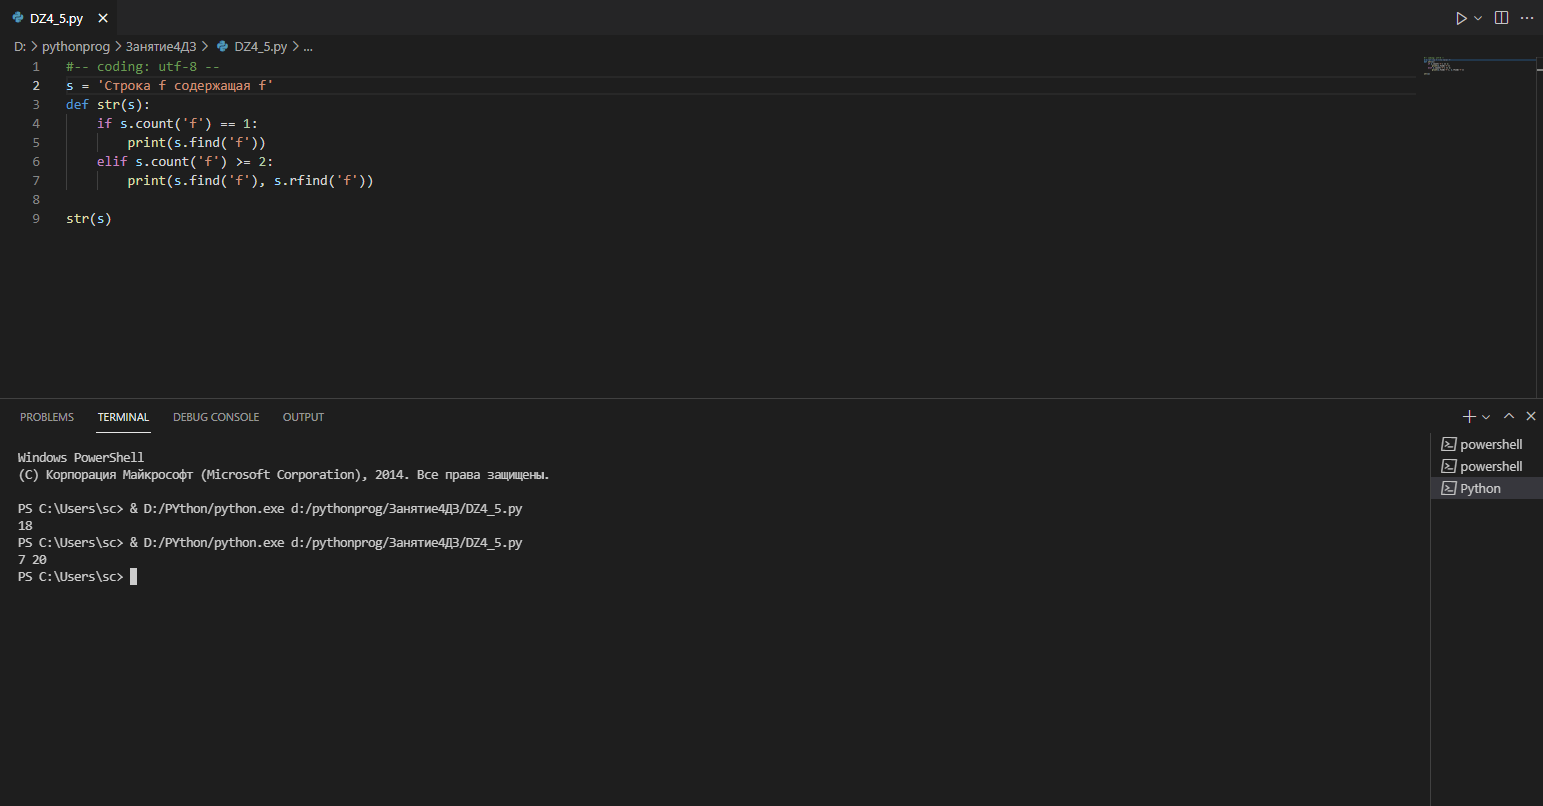
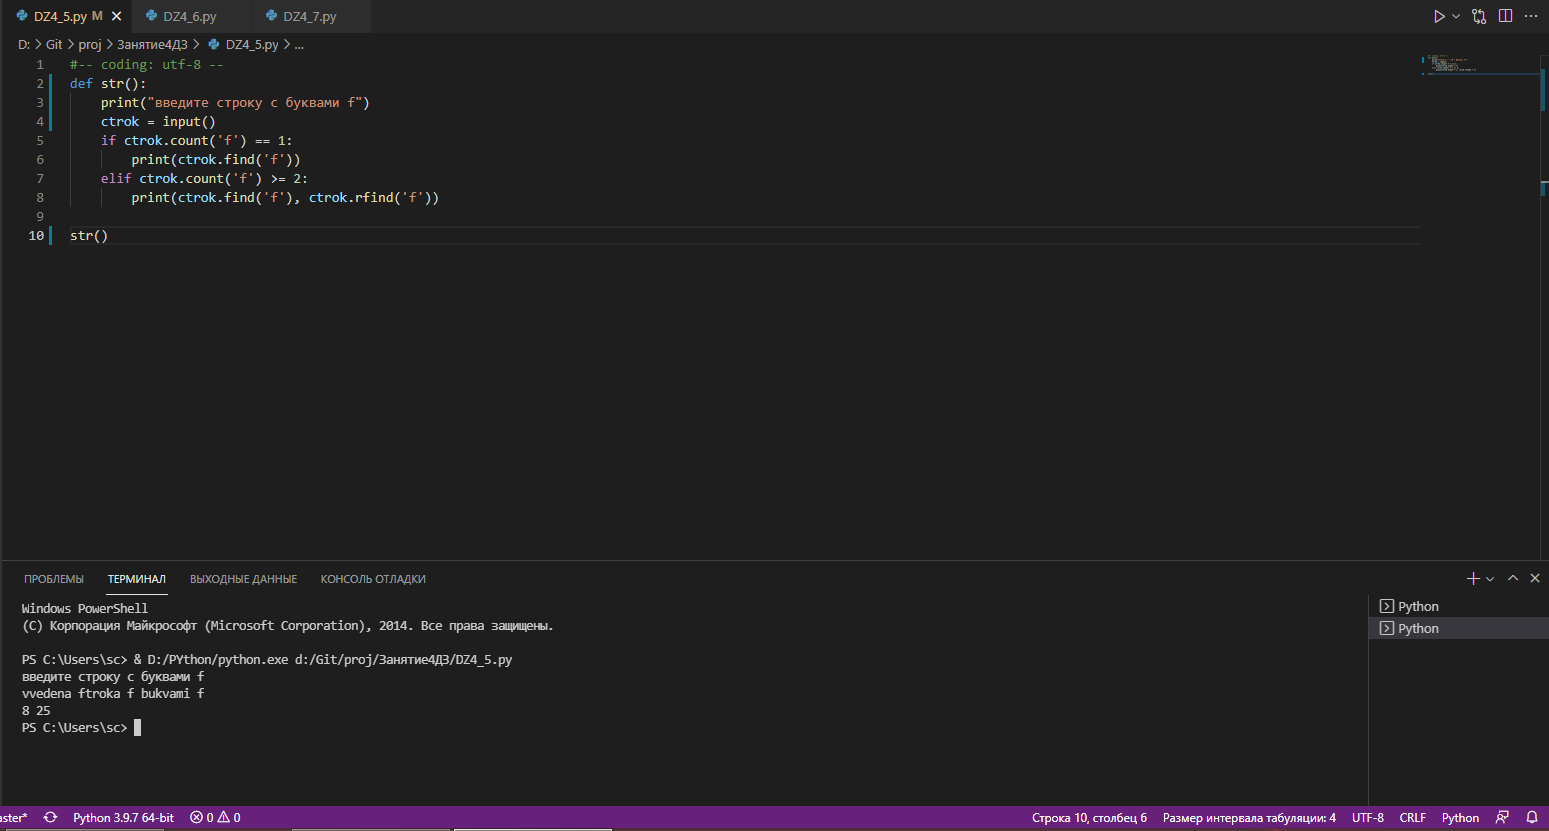
Занятие 4

diff --git a/Занятие4ДЗ/DZ4_9.py b/Занятие4ДЗ/DZ4_9.py
@@ -1,9 +1,11 @@
 #-- coding: utf-8 --
-ctrok = input('Введите строку ')
-simb = input('Введите символ который надо удалить ')
 
-def str(ctrok):
+def str():
+    print('Введите строку ')
+    ctrok = input()
+    print('Введите символ который надо удалить ')
+    simb = input()
     a = ctrok.replace(simb, '')
     print(a)
 
-str(ctrok)
+str()

diff --git a/Занятие4ДЗ/DZ4_8.py b/Занятие4ДЗ/DZ4_8.py
@@ -1,9 +1,11 @@
 #-- coding: utf-8 --
-ctrok = 'строка h с буквой h между h'	
-def str(ctrok):
+
+def str():
+    print("Введите строку с буквами h")
+    ctrok = input()
     tri = ctrok[:ctrok.find('h')]
     dva = ctrok[ctrok.find('h'): ctrok.rfind('h')]
     raz = ctrok[ctrok.rfind('h') + 1:]
     print(tri + dva[::-1] + raz)
 
-str(ctrok)
+str()

diff --git a/Занятие4ДЗ/DZ4_6.py b/Занятие4ДЗ/DZ4_6.py
@@ -1,10 +1,12 @@
 #-- coding: utf-8 --
-ctrok = 'Строка с  содержащая'
-def str(ctrok):
+
+def str():
+    print("Введите строку с буквами f")
+    ctrok = input()
     if ctrok.count('f') == 1:
         print(-1)
     elif ctrok.count('f') < 1:
         print(-2)
     else:
         print(ctrok.find('f', ctrok.find('f') + 1))
-str(ctrok)
+str()

diff --git a/Занятие4ДЗ/DZ4_5.py b/Занятие4ДЗ/DZ4_5.py
@@ -1,9 +1,10 @@
 #-- coding: utf-8 --
-ctrok = 'Строка f содержащая f'
-def str(ctrok):
+def str():
+	print("введите строку с буквами f")
+	ctrok = input()
 	if ctrok.count('f') == 1:
 		print(ctrok.find('f'))
 	elif ctrok.count('f') >= 2:
 		print(ctrok.find('f'), ctrok.rfind('f'))
 
-str(ctrok)
+str()

diff --git a/Занятие4ДЗ/DZ4_1.py b/Занятие4ДЗ/DZ4_1.py
@@ -1,6 +1,8 @@
 #-- coding: utf-8 --
-ctrok = 'Строка'
-def ctr(Ctrok):
+
+def ctr():	
+	print("ВВедите строку")
+	ctrok=input()    
 	print(ctrok[2])
 	print(ctrok[-2])
 	print(ctrok[0:5])
@@ -10,5 +12,5 @@ def ctr(Ctrok):
 	print(ctrok[::-1])
 	print(ctrok[::-2])
 	print(len(ctrok))
-    
-ctr(ctrok)
+
+ctr()

diff --git a/Занятие4ДЗ/DZ4_7.py b/Занятие4ДЗ/DZ4_7.py
@@ -1,6 +1,9 @@
 #-- coding: utf-8 --
-ctrok = 'строка h с  h буквой h'
-def str(ctrok):	
+
+def str():	
+    print("Введите строку с буквами h")
+    ctrok = input()
     ctrok = ctrok[:ctrok.find('h')] + ctrok[ctrok.rfind('h') + 1:]
     print(ctrok)
-str(ctrok)
+    
+str()

diff --git a/Занятие4ДЗ/DZ4_4.py b/Занятие4ДЗ/DZ4_4.py
@@ -1,8 +1,9 @@
 #-- coding: utf-8 --
-ctrok = 'Строка для перестановки'
-def str(ctrok):
+def str():
+	print("введите строку")
+	ctrok = input()
 	a = ctrok[:ctrok.find(' ')]
 	ctr = ctrok[ctrok.find(' ') + 1:]
 	print(ctr + ' ' + a)
 
-str(ctrok)
+str()

diff --git a/Занятие4ДЗ/DZ4_3.py b/Занятие4ДЗ/DZ4_3.py
@@ -1,7 +1,9 @@
 #-- coding: utf-8 --
-s = 'Строка для деления'
-def str(ctrok):
+
+def str():
+	print("введите строку")
+	ctrok = input()
 	a = (ctrok[len(ctrok) // 2:] + ctrok[:len(ctrok) // 2])
 	print(a)
 
-str(s)
+str()

diff --git a/Занятие4ДЗ/DZ4_2.py b/Занятие4ДЗ/DZ4_2.py
@@ -1,7 +1,8 @@
 #-- coding: utf-8 --
-ctrok = 'Строка с пробелами'
-def str(ctrok):
-	print(ctrok)
+
+def str():
+	print("введите строку")
+	ctrok = input()
 	print(ctrok.count(' ') + 1)
     
-str(ctrok)
+str()
